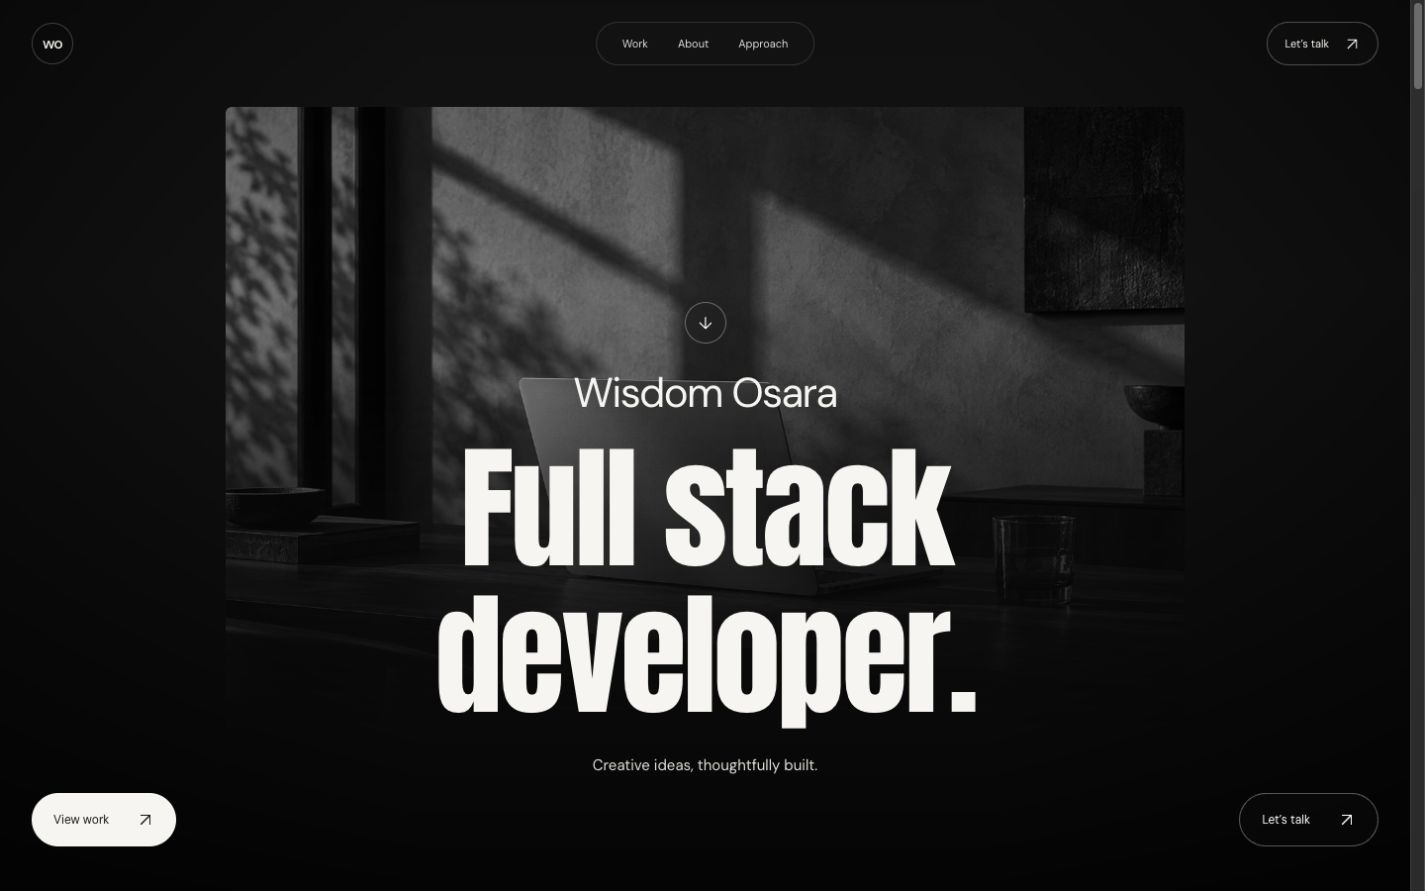
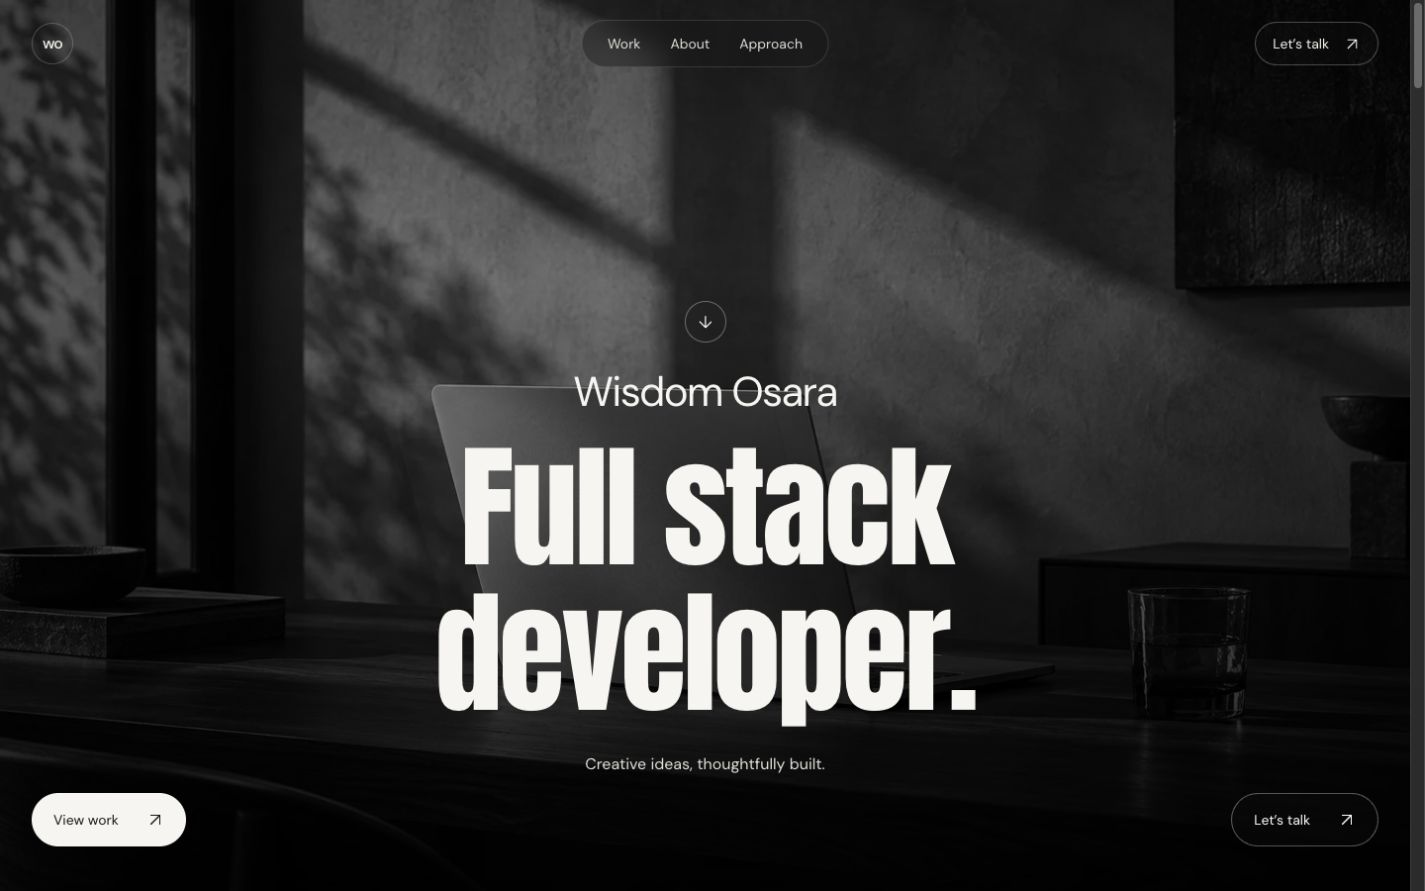
Restore full-screen hero with optimized images and rebalance typography

diff --git a/index.html b/index.html
@@ -71,11 +71,11 @@
     <link rel="stylesheet" href="./assets/css/portfolio.css?v=safari-arrows-1" />
     <link
       rel="stylesheet"
-      href="./assets/css/scroll-scenes.css?v=safari-overflow-1"
+      href="./assets/css/scroll-scenes.css?v=readable-type-1"
     />
-    <link rel="stylesheet" href="./assets/css/identity.css?v=fullscreen-menu-1" />
+    <link rel="stylesheet" href="./assets/css/identity.css?v=readable-hero-1" />
     <script src="./scripts/intro.js?v=stack-shutters" defer></script>
-    <script src="./scripts/portfolio.js?v=fullscreen-menu-1" defer></script>
+    <script src="./scripts/portfolio.js?v=readable-hero-1" defer></script>
     <script
       src="./scripts/scroll-scenes.js?v=footer-completion-1"
       defer
@@ -143,7 +143,9 @@
         <div class="identity-visual hero-arrival" aria-hidden="true">
           <div class="identity-image">
             <img
-              src="./assets/images/studio.jpg"
+              src="./assets/images/studio.webp"
+              srcset="./assets/images/studio-mobile.webp 960w, ./assets/images/studio.webp 1536w"
+              sizes="100vw"
               alt=""
               width="1536"
               height="1024"
@@ -151,7 +153,9 @@
             />
             <img
               class="image-echo"
-              src="./assets/images/studio.jpg"
+              src="./assets/images/studio.webp"
+              srcset="./assets/images/studio-mobile.webp 960w, ./assets/images/studio.webp 1536w"
+              sizes="100vw"
               alt=""
               width="1536"
               height="1024"
@@ -385,7 +389,7 @@
                     <div class="project-image">
                       <div class="browser-frame">
                         <img
-                          src="./assets/images/projects/wisdom-osara.jpg?v=personal-hero-1"
+                          src="./assets/images/projects/wisdom-osara.jpg?v=full-hero-2"
                           alt="The new Wisdom Osara portfolio hero with his name and full stack developer headline"
                           width="1425"
                           height="891"

diff --git a/assets/css/scroll-scenes.css b/assets/css/scroll-scenes.css
@@ -50,8 +50,8 @@
   grid-template-columns: minmax(0, 1fr) auto;
   align-items: start;
   gap: 12px;
-  font-size: clamp(32px, 3.7vw, 62px);
-  line-height: 1.05;
+  font-size: clamp(26px, 2.5vw, 40px);
+  line-height: 1.15;
   letter-spacing: -0.045em;
 }
 .work-track .project-info h3 span {
@@ -68,17 +68,26 @@
   height: auto;
 }
 .work-track .project-info p {
-  font-size: 14px;
-  line-height: 1.8;
-  margin-top: 22px;
+  font-size: 16px;
+  color: #62665e;
+  line-height: 1.65;
+  margin-top: 18px;
 }
 .work-track .project-type {
   display: block;
   margin-top: 35px;
-  font-size: 10px;
+  font-size: 13px;
+  color: #5e625a;
+  line-height: 1.5;
+  white-space: normal;
 }
 .work-section {
   padding-bottom: 70px;
+}
+.work-section .section-aside {
+  font-size: 16px;
+  line-height: 1.65;
+  max-width: 340px;
 }
 /* A typographic introduction with a short, useful biography. */
 .about-section {
@@ -88,7 +97,7 @@
 .about-topline {
   display: flex;
   justify-content: space-between;
-  font-size: 12px;
+  font-size: 16px;
   margin-bottom: 45px;
 }
 .about-topline span {
@@ -393,7 +402,7 @@
     grid-template-columns: minmax(0, 1fr) auto;
     align-items: center;
     gap: 12px;
-    font-size: clamp(25px, 7.4vw, 32px);
+    font-size: 24px;
   }
   .work-track .project-info h3 span {
     display: grid;
@@ -406,7 +415,7 @@
     transform: none;
   }
   .work-track .project-info p {
-    font-size: 13px;
+    font-size: 16px;
     margin-top: 14px;
   }
   .work-track .project-type {
@@ -416,7 +425,7 @@
   }
   .about-topline {
     margin-bottom: 30px;
-    font-size: 11px;
+    font-size: 15px;
   }
   .about-statement {
     font-size: clamp(34px, 11vw, 60px);

diff --git a/assets/css/identity.css b/assets/css/identity.css
@@ -43,14 +43,14 @@
   backdrop-filter: blur(12px);
 }
 .site-header .desktop-nav a {
-  font-size: 11px;
+  font-size: 14px;
   color: #deded9;
 }
 .site-header .header-contact {
   padding: 10px 17px;
   border: 1px solid #ffffff40;
   border-radius: 30px;
-  font-size: 11px;
+  font-size: 14px;
   gap: 15px;
   background: #15151540;
 }
@@ -75,11 +75,9 @@
 }
 .identity-visual {
   position: absolute;
-  inset: 12% 16% 18%;
+  inset: 0;
   z-index: -2;
   overflow: hidden;
-  border-radius: 6px;
-  mask-image: linear-gradient(#000 45%, transparent 100%);
 }
 .identity-image {
   position: absolute;
@@ -134,7 +132,7 @@
 }
 .identity-tagline {
   margin-top: 24px;
-  font-size: 15px;
+  font-size: 16px;
   line-height: 1.5;
   color: #e0e0da;
 }
@@ -192,7 +190,7 @@
   border-radius: 40px;
   background: #f6f5f1;
   color: #171717;
-  font-size: 12px;
+  font-size: 14px;
   white-space: nowrap;
   transition:
     background 0.3s,
@@ -392,7 +390,7 @@
     padding: 12px 20px;
   }
   .site-header .desktop-nav a {
-    font-size: 10px;
+    font-size: 13px;
   }
   .identity-copy {
     bottom: 120px;
@@ -408,22 +406,23 @@
     gap: 12px;
   }
   .hero-button {
-    padding: 13px 16px;
-    gap: 14px;
+    padding: 13px 14px;
+    gap: 12px;
+    font-size: 13px;
   }
   .identity-greeting {
     font-size: clamp(24px, 6vw, 32px);
     margin-bottom: 16px;
   }
   .identity-tagline {
-    font-size: 13px;
+    font-size: 15px;
     margin-top: 22px;
   }
   .identity-image img {
     object-position: 50% 50%;
   }
-  .identity-visual {
-    inset: 21% 16% 41%;
+  .site-header .header-contact {
+    font-size: 13px;
   }
 }
 @media (max-width: 600px) {

diff --git a/scripts/portfolio.js b/scripts/portfolio.js
@@ -203,7 +203,7 @@
     portfolio: {
       title: "Wisdom Osara",
       category: "PERSONAL PORTFOLIO",
-      image: "projects/wisdom-osara.jpg?v=personal-hero-1",
+      image: "projects/wisdom-osara.jpg?v=full-hero-2",
       alt: "The new Wisdom Osara portfolio hero with his name and full stack developer headline",
       description:
         "My portfolio, built around clean design and considered motion.",

diff --git a/README.md b/README.md
@@ -27,9 +27,11 @@ Open http://127.0.0.1:4173.
 
 When changing a project, update both its HTML link/card and its entry in the `projects` object. The résumé and Global Adventures project are retained from the original portfolio. Current selected products: Properties Haven, Parallel, Worlds, GrowLarge Digital, Wisdom Osara, and Global Adventures. Tech stacks for external products are intentionally unspecified.
 
-Animation follows the device’s reduced-motion preference automatically. The full-screen hero uses a smaller inset monochrome studio image, subtle image layering, floating navigation, a prominent name, and an oversized two-line “Full stack developer.” headline. A short creativity line and two links complete the introduction. It stays face-free. Anton is self-hosted alongside its OFL license. Five staggered shutters animate away before the hero reveals; skip and Escape dismiss them. Deep links and reduced motion bypass the intro. The mobile navigation covers the viewport with a curtain entrance and staggered links, locks background scrolling, and keeps keyboard focus in the menu until dismissal. Without JavaScript, content remains visible.
+Animation follows the device’s reduced-motion preference automatically. The full-screen hero uses a full-bleed monochrome studio image, subtle image layering, floating navigation, a prominent name, and an oversized two-line “Full stack developer.” headline. A short creativity line and two links complete the introduction. It stays face-free. Anton is self-hosted alongside its OFL license. Five staggered shutters animate away before the hero reveals; skip and Escape dismiss them. Deep links and reduced motion bypass the intro. The mobile navigation covers the viewport with a curtain entrance and staggered links, locks background scrolling, and keeps keyboard focus in the menu until dismissal. Without JavaScript, content remains visible.
 
 On viewports at least 600px high, when every card fits with room to spare, project panels stick and stack vertically, gently scaling and dimming beneath the next panel. The About statement fills as it scrolls into view, followed by a short bio, résumé link, and a plain technology list. Three compact, full-width process rows reveal their background and titles with scroll progress. Reveals start when content reaches 68% of the viewport height and re-arm after it leaves below the screen. The work title reveals line by line. About/process/contact effects run from 68% to 25% of the viewport, keeping their motion visible while reading. Their end positions are capped to the available document scroll distance so the final process row and contact heading complete at the bottom. Contact text remains unclipped throughout its shorter entrance. Native scrolling also drives image depth and card stacking. Phone cards use a compact vertical layout and the same sticky stack, with a single outlined arrow beside the title. Short viewports or enlarged text that prevents the cards fitting retain normal flow; reduced motion disables the effects. Process title movement stays inside the section to prevent horizontal scrollbars during entrances. Arrow icons use SVG paths to avoid emoji substitution in Safari. No wheel interception or perpetual rendering loop is used.
+
+The hero loads responsive WebP images: `studio.webp` (1536 × 1024, 80,822 bytes) or `studio-mobile.webp` (960 × 640, 31,280 bytes), selected by viewport and device pixel density. Both visual layers share the same cached image. The original JPEG is 376,842 bytes and is retained as a source asset, not loaded by the page.
 
 `assets/images/studio.jpg` is a decorative AI-generated studio photograph, not a depiction of Wisdom’s actual workspace. Created with the built-in image generation tool. Prompt: “Landscape editorial photograph for a minimalist developer portfolio: a brushed aluminium laptop on a dark walnut desk in a quiet modernist studio, late afternoon sunlight, architectural shadows, olive-grey plaster, forest green shadows and warm ivory highlights. No people, faces, logos, text, or graphics.”
 
